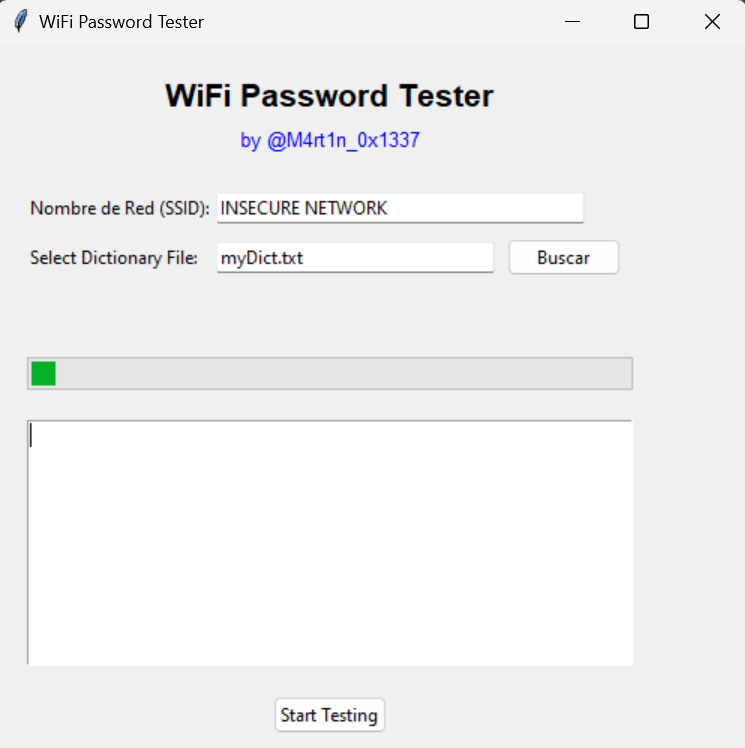
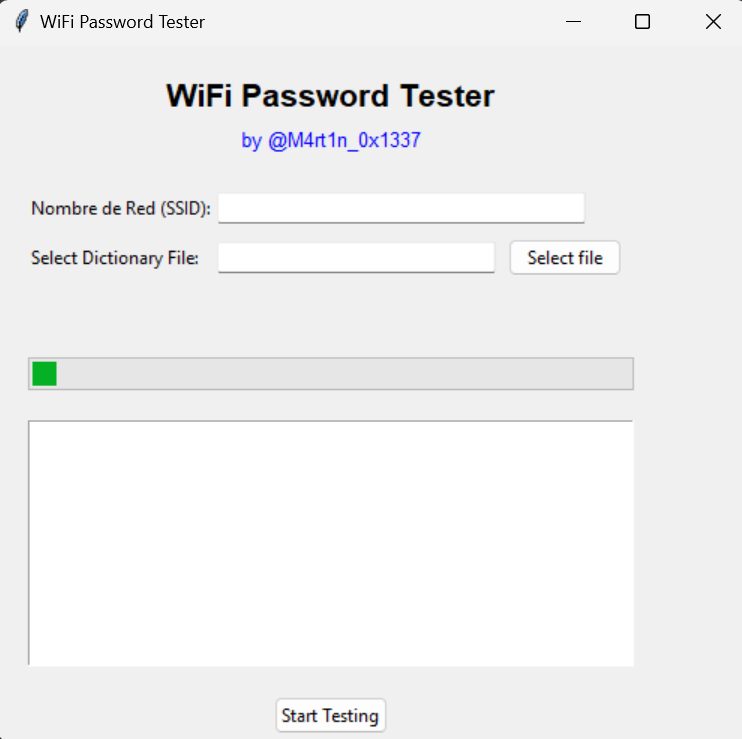
11-1

diff --git a/connectionGui.py b/connectionGui.py
@@ -35,7 +35,7 @@ class WifiTesterGUI:
         self.file_path_entry = ttk.Entry(main_frame, textvariable=self.file_path_var, width=30)
         self.file_path_entry.grid(row=3, column=1, sticky=tk.W, pady=5)
         
-        self.browse_button = ttk.Button(main_frame, text="Buscar", command=self.browse_file)
+        self.browse_button = ttk.Button(main_frame, text="Select file", command=self.browse_file)
         self.browse_button.grid(row=3, column=2, sticky=tk.W, pady=5, padx=5)
         
         
